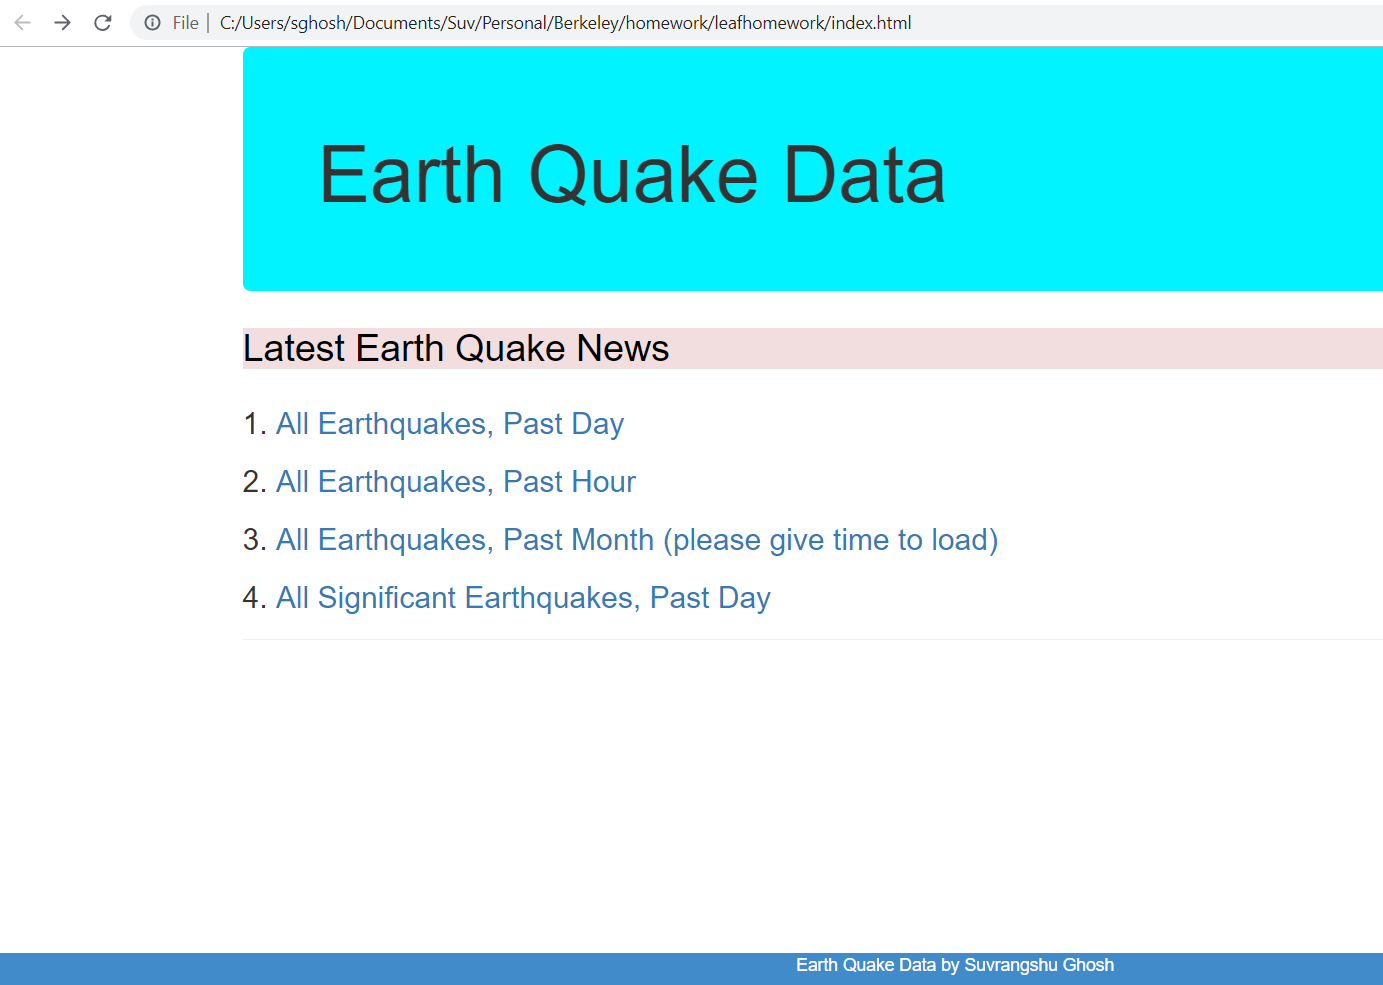
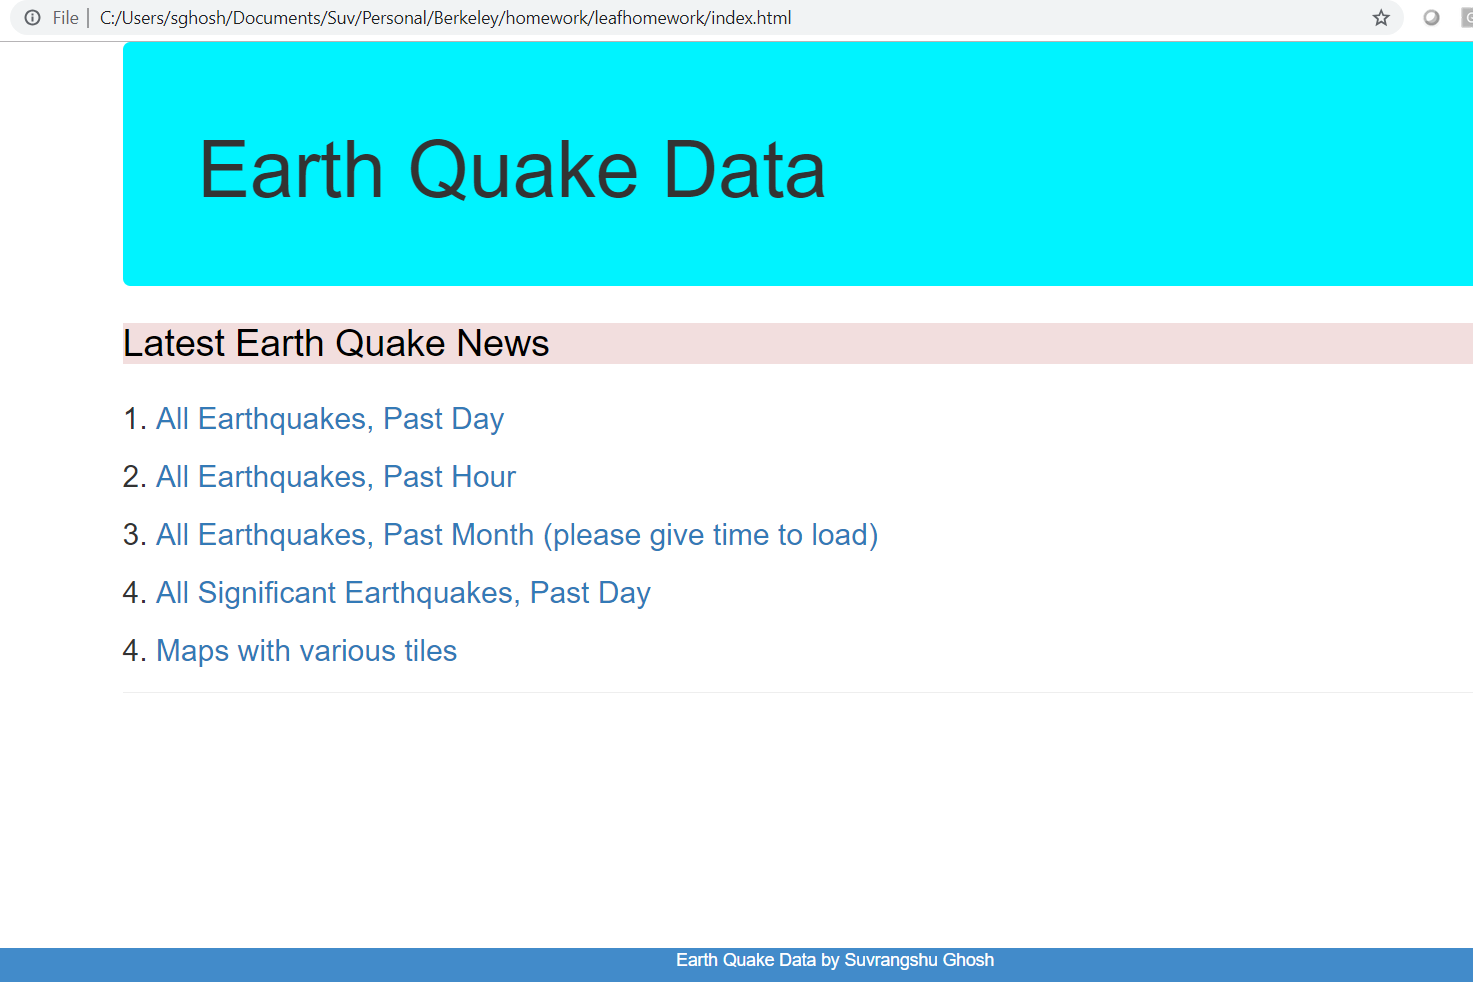
4th commit

Changed region(s): [[0.0, 0.0, 1.0, 0.6721], [0.4353, 0.947, 0.8084, 1.0]]

diff --git a/js/logic_extra.js b/js/logic_extra.js
@@ -1,0 +1,122 @@
+function createMarkers(response) {
+
+  var locs = response.features;
+  
+  for (var i=0; i < locs.length; i++){
+
+    var longitude = locs[i].geometry.coordinates[0];
+    var lattitude = locs[i].geometry.coordinates[1];
+
+    var magnitude = locs[i].properties.mag;
+
+var fillColour = "GreenYellow";
+
+ 
+ if (magnitude > 1) {
+       fillColour = "Yellow";
+     };
+ 
+if (magnitude > 2) {
+       fillColour = "Gold";
+     };
+ 
+if (magnitude > 3) {
+       fillColour = "Coral";
+     };
+ 
+if (magnitude > 4) {
+       fillColour = "Tomato";
+     };
+ 
+if (magnitude > 5) {
+       fillColour = "Red";
+     };
+
+    var Circle = L.circle([lattitude, longitude], {
+      				color: "Black",
+      				fillColor: fillColour,
+      				fillOpacity: 0.75,
+      				weight: 1,
+      				radius: magnitude*20000
+    				})
+    				.bindPopup("<h3>Place: " + locs[i].properties.place + "</h3><h3>Magnitude: " + magnitude + "</h3>");
+
+					Circle.addTo(quakes);
+  
+  };
+};
+
+  
+
+// Perform an API call to get quake information. Call createMarkers when complete
+d3.json("https://earthquake.usgs.gov/earthquakes/feed/v1.0/summary/all_day.geojson", createMarkers);
+
+// Adding tile layer - Outdoors
+var outdoors = L.tileLayer("https://api.tiles.mapbox.com/v4/{id}/{z}/{x}/{y}.png?access_token={accessToken}", {
+    attribution: "Map data &copy; <a href=\"https://www.openstreetmap.org/\">OpenStreetMap</a> contributors, <a href=\"https://creativecommons.org/licenses/by-sa/2.0/\">CC-BY-SA</a>, Imagery © <a href=\"https://www.mapbox.com/\">Mapbox</a>",
+    maxZoom: 10,
+    id: "mapbox.outdoors",
+    accessToken: API_KEY
+});
+
+// Adding tile layer - lightmap
+var lightmap = L.tileLayer("https://api.tiles.mapbox.com/v4/{id}/{z}/{x}/{y}.png?access_token={accessToken}", {
+    attribution: "Map data &copy; <a href=\"https://www.openstreetmap.org/\">OpenStreetMap</a> contributors, <a href=\"https://creativecommons.org/licenses/by-sa/2.0/\">CC-BY-SA</a>, Imagery © <a href=\"https://www.mapbox.com/\">Mapbox</a>",
+    maxZoom: 10,
+    id: "mapbox.light",
+    accessToken: API_KEY
+});
+
+// Adding tile layer - satellite
+var satellite = L.tileLayer("https://api.tiles.mapbox.com/v4/{id}/{z}/{x}/{y}.png?access_token={accessToken}", {
+    attribution: "Map data &copy; <a href=\"https://www.openstreetmap.org/\">OpenStreetMap</a> contributors, <a href=\"https://creativecommons.org/licenses/by-sa/2.0/\">CC-BY-SA</a>, Imagery © <a href=\"https://www.mapbox.com/\">Mapbox</a>",
+    maxZoom: 10,
+    id: "mapbox.satellite",
+    accessToken: API_KEY
+});
+
+// Quake layer
+var quakes= L.layerGroup();
+
+
+var map = L.map("map-id", {
+  center: [37.79, -122.42],
+  zoom: 5,
+  layers: [outdoors, quakes]
+});
+
+// Creating base map
+var baseMaps = {
+	"Satellite": satellite,
+	"Grayscale": lightmap,
+	"Outdoors": outdoors};
+
+// Creating overlay map
+var overlayMaps = {
+    "Earthquakes": quakes
+};
+
+L.control.layers(baseMaps, overlayMaps).addTo(map);
+
+
+    var legend = L.control({position: 'bottomright'});
+
+    legend.onAdd = function (map) {
+    
+        var div = L.DomUtil.create('div', 'legend'),
+            grades = [0, 1, 2, 3, 4, 5],
+            c_palette = ["#ADFF2F", "#FFFF00", "#FFD700", "#FF7F50", "#FF6347", "#FF4500"],
+            labels = [];
+    
+        // loop through our density intervals and generate a label with a colored square for each interval
+        for (var i = 0; i < grades.length; i++) {
+          div.innerHTML += '<i style="background:' + c_palette[i] + '"></i> ' + grades[i] + (grades[i + 1] ? '&ndash;' 
+                           + grades[i + 1] + '<br>' : '+');
+          }
+          return div;
+
+
+    };
+    
+    legend.addTo(map);
+

diff --git a/earthquake5.html b/earthquake5.html
@@ -1,0 +1,30 @@
+<!DOCTYPE html>
+<html lang="en">
+<head>
+  <meta charset="UTF-8">
+  <title>Earthquakes</title>
+
+  <!-- Leaflet CSS -->
+  <link rel="stylesheet" href="https://unpkg.com/leaflet@1.0.0-rc.3/dist/leaflet.css">
+
+  <!-- Our CSS -->
+  <link rel="stylesheet" type="text/css" href="css/style.css">
+</head>
+<body>
+
+  <!-- The div that holds our map -->
+  <div id="map-id"></div>
+
+  <!-- D3 -->
+  <script src="https://cdnjs.cloudflare.com/ajax/libs/d3/4.5.0/d3.min.js"></script>
+
+  <!-- Leaflet JavaScript -->
+  <script src="https://unpkg.com/leaflet@1.0.0-rc.3/dist/leaflet.js"></script>
+
+  <!-- API Key -->
+  <script type="text/javascript" src="js/config.js"></script>
+  <!-- Our JavaScript -->
+  <script type="text/javascript" src="js/logic_extra.js"></script>
+</body>
+
+</html>

diff --git a/index.html b/index.html
@@ -82,6 +82,7 @@
 		<h3 class="heading"><p>2. <a href="earthquake2.html">All Earthquakes, Past Hour</a></p></h3>
 		<h3 class="heading"><p>3. <a href="earthquake3.html">All Earthquakes, Past Month (please give time to load)</a></p></h3>
 		<h3 class="heading"><p>4. <a href="earthquake4.html">All Significant Earthquakes, Past Day</a></p></h3>
+		<h3 class="heading"><p>4. <a href="earthquake5.html">Maps with various tiles</a></p></h3>
 		
 		
 		<hr>	

diff --git a/Readme.md b/Readme.md
@@ -27,3 +27,13 @@ Please click on each options to view the different earthquakes maps areas:
 4. 
 ![](images/clip6.png)
 
+5.
+![](images/clip7.png)
+
+6.
+![](images/clip8.png)
+
+7.
+![](images/clip9.png)
+
+
